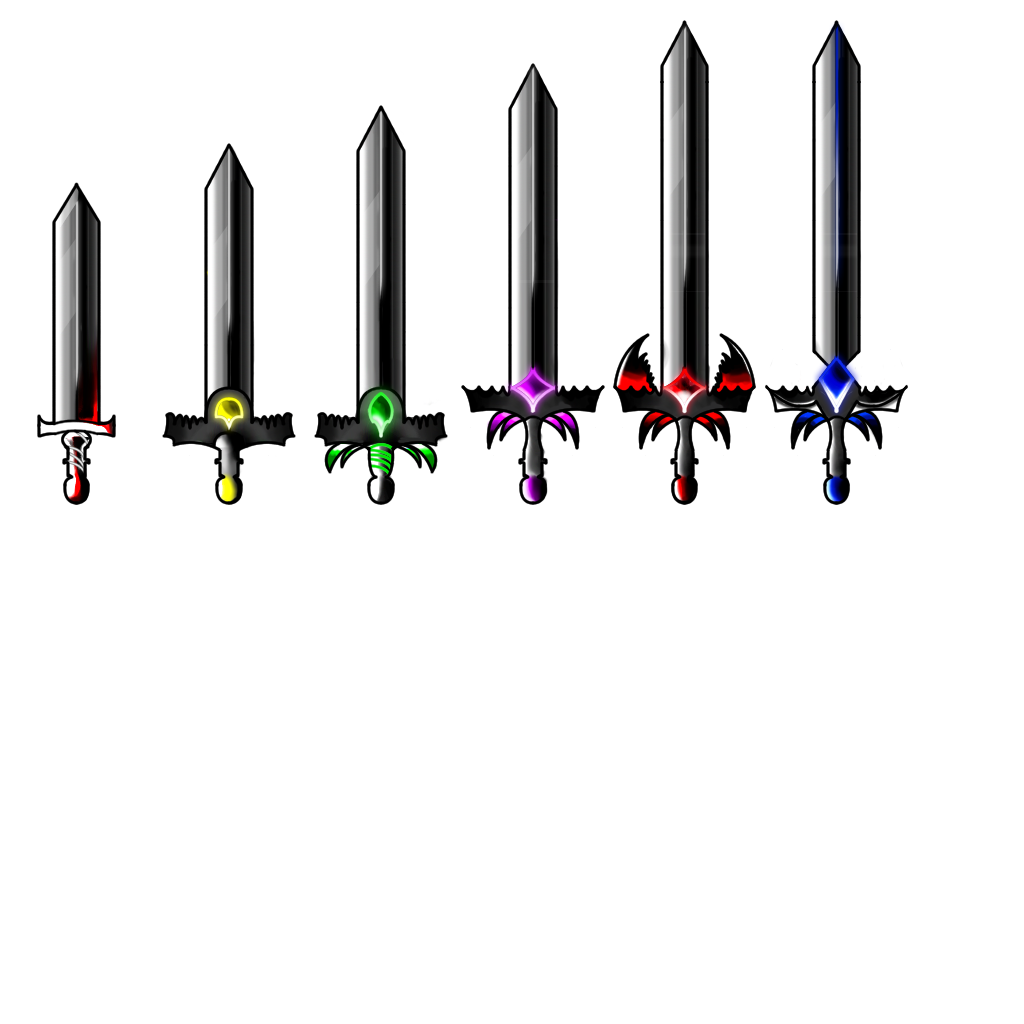
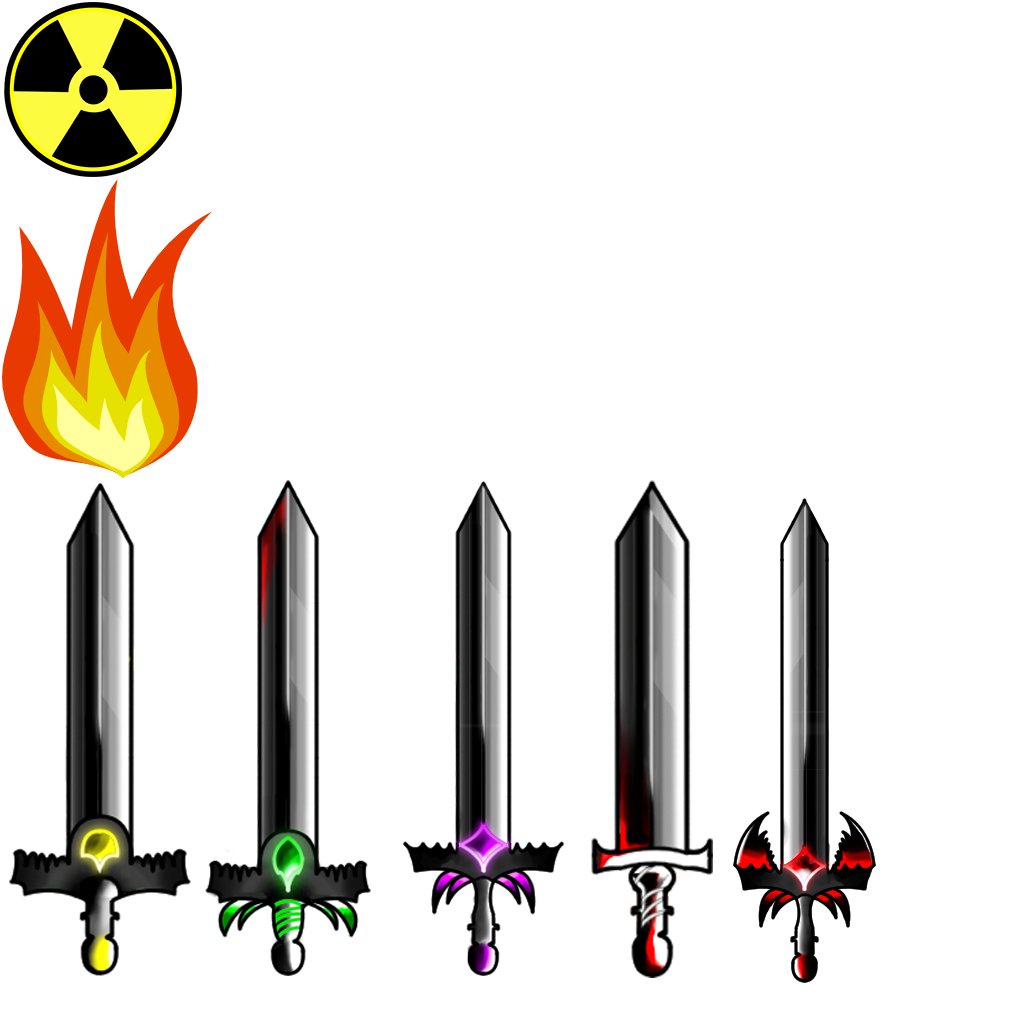
Added powers

Changed region(s): [[0.375, 0.0312, 0.9062, 0.9688], [0.0, 0.0, 0.4375, 0.9688]]

diff --git a/core/src/com/mzinck/shapez/MainScreen.java b/core/src/com/mzinck/shapez/MainScreen.java
@@ -1,9 +1,14 @@
 package com.mzinck.shapez;
 
 import java.util.ArrayList;
+import java.util.HashMap;
+import java.util.Iterator;
+import java.util.Map;
+import java.util.Map.Entry;
 
 import com.badlogic.gdx.ApplicationAdapter;
 import com.badlogic.gdx.Gdx;
+import com.badlogic.gdx.Input;
 import com.badlogic.gdx.graphics.Color;
 import com.badlogic.gdx.graphics.GL20;
 import com.badlogic.gdx.graphics.OrthographicCamera;
@@ -13,13 +18,14 @@ import com.badlogic.gdx.graphics.g2d.BitmapFont;
 import com.badlogic.gdx.graphics.g2d.Sprite;
 import com.badlogic.gdx.graphics.g2d.SpriteBatch;
 import com.badlogic.gdx.graphics.g2d.TextureAtlas;
-import com.badlogic.gdx.graphics.g2d.TextureAtlas.AtlasRegion;
-import com.badlogic.gdx.graphics.g2d.TextureRegion;
 import com.badlogic.gdx.graphics.glutils.ShapeRenderer;
 import com.badlogic.gdx.graphics.glutils.ShapeRenderer.ShapeType;
+import com.badlogic.gdx.math.Intersector;
 import com.badlogic.gdx.math.MathUtils;
+import com.badlogic.gdx.math.Polygon;
 import com.badlogic.gdx.math.Rectangle;
 import com.badlogic.gdx.math.Vector3;
+import com.mzinck.shapez.power.Power;
 import com.mzinck.shapez.shapes.Shape;
 import com.mzinck.shapez.shapes.ShapeDefs;
 import com.mzinck.shapez.shapes.ShapeFactory;
@@ -36,11 +42,17 @@ public class MainScreen extends ApplicationAdapter {
     private BitmapFont          font;
     private SpriteBatch         batch;
     private Sprite              map, box;
-    private Rectangle           boxRect;
+    private Rectangle           boxRect,
+                                powerButtons;
+    private Polygon             polyOne,
+                                polyTwo;
     private OrthographicCamera  cam;
     private Player              player;
-    private ArrayList<Shape>    shapes;
     private Sprite[]            swords;
+    private Map<Power, Sprite>  droppedPowers;
+    private Sprite              firePower;
+    private float[]             fireArray;
+    private ArrayList<Shape>    shapes;
     private TextureAtlas        atlas;
     private Vector3             coords;
     private ShapeFactory<Shape> shapeFactory;
@@ -60,6 +72,8 @@ public class MainScreen extends ApplicationAdapter {
     public void create() {
         SCALE_RATIO = 150 / Gdx.graphics.getWidth();
         shapeFactory = Shape::new;
+        polyTwo = new Polygon();
+        polyOne = new Polygon();         
         
         atlas = new TextureAtlas(Gdx.files.internal("pack.atlas"));
         swords = new Sprite[10];
@@ -71,6 +85,8 @@ public class MainScreen extends ApplicationAdapter {
                 Constants.PLAYER_START_SIZE, Sword.ONE);
 
         shapes = new ArrayList<Shape>();
+        droppedPowers = new HashMap<Power, Sprite>();
+        firePower = null;
 
         float w = Gdx.graphics.getWidth();
         float h = Gdx.graphics.getHeight();
@@ -83,6 +99,8 @@ public class MainScreen extends ApplicationAdapter {
         box.setPosition(300, 300);
         box.setSize(100F, 100F);
         boxRect = new Rectangle(box.getX(), box.getY(), 100F, 100F);
+        
+        powerButtons = new Rectangle();
         
 //        map = new Sprite(new Texture(Gdx.files.internal("camera.png")));
 //        map.setPosition(0 + (cam.viewportWidth * cam.zoom / 2F), 0 + (cam.viewportHeight * cam.zoom / 2F));
@@ -100,7 +118,8 @@ public class MainScreen extends ApplicationAdapter {
     public void render() {        
         spawnShapes();
         handleInput();
-        player.update();
+        player.update(); 
+        updateFire();      
         if(player.getHP() < 1) {
            newLevel();
            level = 1;
@@ -136,6 +155,17 @@ public class MainScreen extends ApplicationAdapter {
         shapeRend.end();
         
         batch.begin();
+        for(Sprite sprite : droppedPowers.values()) {
+            batch.draw(sprite, sprite.getX(), sprite.getY(), sprite.getRegionWidth() * 0.05F, sprite.getRegionHeight() * 0.05F);
+        }
+        int count = 0;
+        for(Sprite sprite : player.getPowers().values()) {           
+            batch.draw(sprite, cam.position.x - 32.5F + count * 15, cam.position.y - 65F, 10F, 10F);
+            count++;
+        }
+        if(firePower != null) {
+            batch.draw(firePower, firePower.getX(), firePower.getY(), firePower.getRegionWidth() * 0.35F, firePower.getRegionHeight() * 0.35F);
+        }
         drawSword();
         font.draw(batch, "HP: " + player.getHP(), cam.position.x - 140, cam.position.y + 80);
         font.draw(batch, "Level: " + level, cam.position.x - 140, cam.position.y + 70);
@@ -149,13 +179,13 @@ public class MainScreen extends ApplicationAdapter {
         }
         if(swordCount != 0) {
             swordCount--;
-        }
+        } 
     }
     
     public void drawSword() {
         float array[] = getHypotenuse(false);
-        swordX = array[0] + cam.position.x - 512 * player.getSword().getScaleSize() / 2;
-        swordY = array[1] + cam.position.y - 512 * player.getSword().getScaleSize() / 2;             
+        swordX = array[0] + cam.position.x - 128 * player.getSword().getScaleSize() / 2;
+        swordY = array[1] + cam.position.y;             
 
         batch.draw(swords[player.getSword().getIndex()].getTexture(), swordX, swordY, player.getSize() / 2, 0,
                 swords[player.getSword().getIndex()].getRegionWidth(), swords[player.getSword().getIndex()].getRegionHeight(), 
@@ -199,6 +229,12 @@ public class MainScreen extends ApplicationAdapter {
         for (Shape shape : shapes) {
             shapeRend.rect(shape.getxPos(), shape.getyPos(), shape.getSize(),
                     shape.getSize());
+        } 
+        
+        shapeRend.set(ShapeType.Line);
+        shapeRend.setColor(Color.BLACK);      
+        for(int i = 0; i < 4; i++) {
+            shapeRend.circle(cam.position.x - 32.5F + i * 25, cam.position.y - 60F, 10F, 30);
         }
     }
     
@@ -234,6 +270,58 @@ public class MainScreen extends ApplicationAdapter {
             shapeRend.line(i, 0, i, Constants.WORLD_SIZE);
         }
     }
+    
+    public void doPower(String name) {
+        switch(name) {
+            case "FIRE":
+                firePower = createScaledSprite(atlas.createSprite(Power.FIRE.toString().toLowerCase()));
+                firePower.setPosition(cam.position.x, cam.position.y);
+                fireArray = getHypotenuse(false);
+                break;
+                
+            case "NUKE":
+                break;
+        }
+    }
+    
+    public void updateFire() {
+        if(firePower == null) {
+            return;
+        }
+        
+        polyOne.setVertices(new float[] {
+                firePower.getX(), firePower.getY(),
+                firePower.getX(), firePower.getY() + firePower.getRegionHeight() * 0.35F,
+                firePower.getX() + firePower.getRegionWidth() * 0.35F, firePower.getY() + firePower.getRegionHeight() * 0.35F,
+                firePower.getX() + firePower.getRegionWidth() * 0.35F, firePower.getY()
+            });
+        
+        polyOne.setOrigin(firePower.getX(), firePower.getY());
+        
+        for (Shape shape : shapes) {
+            if(!shape.isDead()) {  
+                polyTwo.setVertices(new float[] {
+                        shape.getxPos(), shape.getyPos(),
+                        shape.getxPos(), shape.getyPos() + shape.getSize(),
+                        shape.getxPos() + shape.getSize(), shape.getyPos() + shape.getSize(),
+                        shape.getxPos() + shape.getSize(), shape.getyPos()
+                });
+                
+                if (Intersector.overlapConvexPolygons(polyOne, polyTwo)) {
+                    shape.setDead();
+                    deadShapes++;
+                    player.setPoints(player.getPoints() + 25);
+                }
+            }
+        }
+        if(firePower.getX() > 600 || firePower.getX() < - 200 || firePower.getY() > 600 || firePower.getY() < -200) {
+            firePower = null;
+            player.getPowers().remove(Power.FIRE);
+        } else {
+            firePower.setX(firePower.getX() + fireArray[0]);
+            firePower.setY(firePower.getY() + fireArray[1]);
+        }
+    }
 
     /**
      * 
@@ -263,6 +351,27 @@ public class MainScreen extends ApplicationAdapter {
             if(boxRect.contains(coords.x, coords.y)) {
                 touchedBox();
             }
+            
+            for(int i = 0; i < player.getPowers().size(); i++) {
+                powerButtons.setX(cam.position.x - 32.5F + i * 25);
+                powerButtons.setX(cam.position.y - 60F);
+                powerButtons.setSize(20F);
+                if(powerButtons.contains(coords.x, coords.y)) {
+                    int c = 0;
+                    for(Power p : player.getPowers().keySet()) {
+                        if(c == i) {
+                            doPower(p.toString());
+                            break;
+                        }
+                        c++;
+                    }
+                }
+            }
+        }
+        
+        if(Gdx.input.isKeyPressed(Input.Keys.B) && player.getPowers().containsKey(Power.FIRE)) {
+            doPower(Power.FIRE.toString());
+            player.getPowers().remove(Power.FIRE);
         }
 
         // if(y < 100 && y > -100) {
@@ -320,8 +429,6 @@ public class MainScreen extends ApplicationAdapter {
             
             int rand = MathUtils.random(100);
             for(Sword s : Sword.values()) {
-                System.out.println(rand);
-                System.out.println(s.getRarity());
                 if(rand >= s.getRarity()) {
                     continue;
                 } else {
@@ -340,22 +447,63 @@ public class MainScreen extends ApplicationAdapter {
     }
 
     public void swordCollision() {
-        Rectangle swordRect = new Rectangle(swordX, swordY, 15F, 15F);
-        Rectangle rect = new Rectangle();
+        polyOne.setVertices(new float[] {
+            swordX, swordY,
+            swordX, swordY + 512 * player.getSword().getScaleSize(),
+            swordX + 128 * player.getSword().getScaleSize(), swordY + 512 * player.getSword().getScaleSize(),
+            swordX + 128 * player.getSword().getScaleSize(), swordY
+        });
+        polyOne.setOrigin(swordX, swordY);
+        polyOne.setRotation(swordAnimationSteps * leftOrRight * 15);
         for (Shape shape : shapes) {
             if(!shape.isDead()) {
-                rect.x = shape.getxPos();
-                rect.y = shape.getyPos();
-                rect.width = shape.getSize();
-                rect.height = shape.getSize();
+                
+                polyTwo.setVertices(new float[] {
+                        shape.getxPos(), shape.getyPos(),
+                        shape.getxPos(), shape.getyPos() + shape.getSize(),
+                        shape.getxPos() + shape.getSize(), shape.getyPos() + shape.getSize(),
+                        shape.getxPos() + shape.getSize(), shape.getyPos()
+                });
     
-                if (swordRect.overlaps(rect)) {
+                if (Intersector.overlapConvexPolygons(polyOne, polyTwo)) {
                     shape.setDead();
                     deadShapes++;
-                    player.setPoints(player.getPoints() + 75);
+                    player.setPoints(player.getPoints() + 25);
+                    int r = MathUtils.random(2000);
+                    if(r < 2000) {
+                        int power = MathUtils.random(0, 3);
+                        if(power == 0 && !droppedPowers.containsKey(Power.FIRE)) {
+                            Sprite s = createScaledSprite(atlas.createSprite(Power.FIRE.toString().toLowerCase()));
+                            s.setPosition(shape.getxPos(), shape.getyPos());
+                            droppedPowers.put(Power.FIRE, s);
+                        } else if(power == 1 && !droppedPowers.containsKey(Power.NUKE)) {
+                            Sprite s = createScaledSprite(atlas.createSprite(Power.NUKE.toString().toLowerCase()));
+                            s.setPosition(shape.getxPos(), shape.getyPos());
+                            droppedPowers.put(Power.NUKE, s);
+                        }
+                    }
                 }
             }
         }
+        
+        Iterator entries = droppedPowers.entrySet().iterator();
+        
+        while(entries.hasNext()) {
+            Entry entry = (Entry) entries.next();
+            Sprite s = (Sprite) entry.getValue();
+            polyTwo.setVertices(new float[] {
+                    s.getX(), s.getY(),
+                    s.getX(), s.getY() + 10F,
+                    s.getX() + 10F, s.getY() + 10F,
+                    s.getX() + 10F, s.getY()
+            });
+            
+            if(Intersector.overlapConvexPolygons(polyOne, polyTwo)) {
+                entries.remove();
+                player.addPower((Power) entry.getKey(), s);
+            }
+        }
+
     }
 
     @Override

diff --git a/core/src/com/mzinck/shapez/Player.java b/core/src/com/mzinck/shapez/Player.java
@@ -1,26 +1,39 @@
 package com.mzinck.shapez;
 
+import java.util.LinkedHashMap;
+import java.util.Map;
+
+import com.badlogic.gdx.graphics.g2d.Sprite;
 import com.badlogic.gdx.math.Rectangle;
+import com.mzinck.shapez.power.Power;
 
 public class Player {
 
-    private int              speed;
-    private int              hp           = 10;
-    private int              points       = 100000;
-    private float            x            = 0;
-    private float            y            = 0;
-    private float            cameraSize   = 300F;
-    private float            size;
-    private Sword            sword;
-    private Rectangle        rect;
-
-    private static final int MAX_VELOCITY = 1;
+    private int                speed;
+    private int                hp         = 10;
+    private int                points     = 0;
+    private float              x          = 0;
+    private float              y          = 0;
+    private float              cameraSize = 300F;
+    private float              size;
+    private Sword              sword;
+    private Rectangle          rect;
+    private Map<Power, Sprite> powers;
 
     public Player(int speed, float size, Sword sword) {
         rect = new Rectangle(x, y, size, size);
         this.speed = speed;
         this.size = size;
         this.sword = sword;
+        powers = new LinkedHashMap<Power, Sprite>();
+    }
+    
+    public void addPower(Power power, Sprite sprite) {
+        powers.put(power, sprite);
+    }
+    
+    public Map<Power, Sprite> getPowers() {
+        return powers;
     }
 
     public void update() {

diff --git a/core/src/com/mzinck/shapez/Sword.java b/core/src/com/mzinck/shapez/Sword.java
@@ -2,16 +2,16 @@ package com.mzinck.shapez;
 
 public enum Sword {
 
-    TEN(9, 1, 1, 1, 9, 0.11F),
-    NINE(8, 1, 1, 2, 8, 0.1F),
-    EIGHT(7, 1, 1, 5, 7, 0.95F),
-    SEVEN(6, 1, 1, 10, 6, 0.9F),
-    SIX(5, 1, 1, 20, 5, 0.85F),
-    FIVE(4, 1, 1, 30, 4, 0.8F),
-    FOUR(3, 1, 1, 50, 3, 0.075F),
-    THREE(2, 1, 1, 65, 2, 0.065F),
-    TWO(1, 1, 1, 60, 1, 0.06F),
-    ONE(0, 1, 1, 100, 0, 0.05F);
+    TEN(0, 1, 1, 1, 9, 0.09F),
+    NINE(1, 1, 1, 2, 8, 0.08F),
+    EIGHT(2, 1, 1, 5, 7, 0.075F),
+    SEVEN(3, 1, 1, 10, 6, 0.07F),
+    SIX(4, 1, 1, 20, 5, 0.065F),
+    FIVE(5, 1, 1, 30, 4, 0.06F),
+    FOUR(6, 1, 1, 50, 3, 0.055F),
+    THREE(7, 1, 1, 65, 2, 0.05F),
+    TWO(8, 1, 1, 60, 1, 0.045F),
+    ONE(9, 1, 1, 100, 0, 0.04F);
     
     private int speed,
                 height,

diff --git a/core/src/com/mzinck/shapez/power/Power.java b/core/src/com/mzinck/shapez/power/Power.java
@@ -1,0 +1,8 @@
+package com.mzinck.shapez.power;
+
+public enum Power {
+
+    FIRE,
+    NUKE;
+
+}
